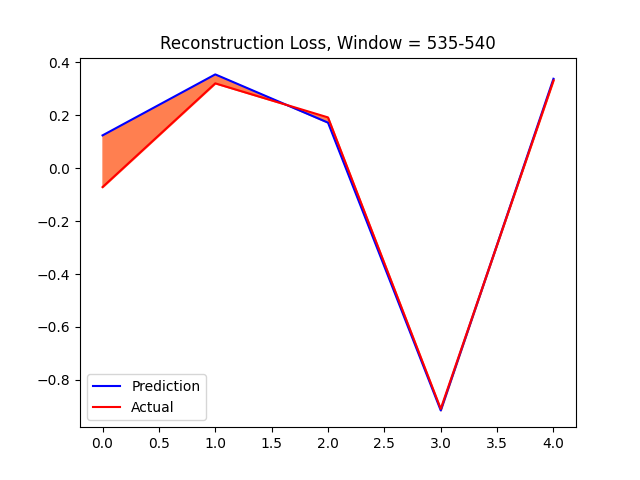
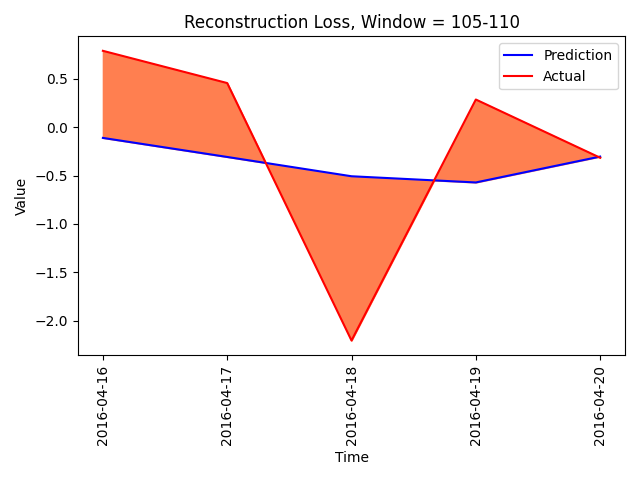
complete windows modularization and plotting cleanup

diff --git a/model/lstm_windows.py b/model/lstm_windows.py
@@ -56,7 +56,7 @@ class LSTMWindowPlot():
         file.close()
         return tuple([anomalous_ind, losses, windows, reconstructs, origs])
 
-    def window_loss_plot(self, reconstruct, orig, all = False, start=None, stop=None,  plot=True, ax=None, legend = False):
+    def window_loss_plot(self, reconstruct, orig, index = None, all = False, start=None, stop=None,  plot=True, ax=None, legend = False):
 
         if not all:
             pred_window = reconstruct[start:stop][:,0]
@@ -64,42 +64,59 @@ class LSTMWindowPlot():
         else:
             pred_window = reconstruct[:,0]
             act_window = orig[:,0]
-            start = 0
-            stop = len(reconstruct)
+            if start is None and stop is None:
+                start = 0
+                stop = len(reconstruct)
 
         if plot:
             if ax is None:
                 plt.plot(pred_window, color="blue", label="Prediction")
                 plt.plot(act_window, color="red", label="Actual")
                 plt.fill_between(np.arange(0, stop-start), act_window, pred_window, color='coral')
+                if index is not None:
+                    index = index.iloc[start:stop]
+                    plt.tick_params(axis='x', labelrotation=90)
+                    plt.xticks(np.arange(0,len(index)), index)
                 title = "Reconstruction Loss, Window = " + str(start) + "-" + str(stop)
                 plt.title(title)
+                plt.xlabel("Time")
+                plt.ylabel("Value")
+                plt.tight_layout()
                 if legend:
                     plt.legend()
             else:
                 ax.plot(pred_window, color="blue", label="Prediction")
                 ax.plot(act_window, color="red", label="Actual")
                 ax.fill_between(np.arange(0, stop-start), act_window, pred_window, color='coral')
+                if index is not None:
+                    index = index.iloc[start:stop]
+                    ax.tick_params(axis='x', labelrotation=90)
+                    ax.set_xticks(np.arange(0,len(index)), index)
                 title = "Reconstruction Loss, Window = " + str(start) + "-" + str(stop)
                 ax.set_title(title)
+                ax.set_xlabel("Time")
+                ax.set_ylabel("Value")
+                plt.tight_layout()
                 if legend:
                     ax.legend()        
         # we can now quantify the reconstruction loss in just this window
         return tf.get_static_value(tf.keras.losses.mse(pred_window, act_window))
     
-    def plot_anomalous(self, data, format_sizetitle, save = True, show=True):
+    def plot_anomalous(self, data, format_sizetitle, std_dev = 1.5, anomindex = None, save = True, show=True):
         loss = np.array(data[1])
         all_windows = np.array(data[2])
         reconstructs = np.array(data[3])[0].reshape(-1, 1)
         origs = np.array(data[4])[0].reshape(-1, 1)
-        threshold = np.mean(loss) + np.std(loss) # beyond a std dev
-
+        threshold = np.mean(loss) + std_dev*np.std(loss)
+        
         anomalous_ind = [i for i, x in enumerate(loss > threshold) if x]
         for j in anomalous_ind:
             region = all_windows[j]
             plt.figure()
-            self.window_loss_plot(reconstructs, origs, start = region[0], stop=region[1], all=False, plot=True, legend=True)
-            if save: # modeling assumption: training occurs in the first 100 time series points
-                plt.savefig("lstm_windows_res/anom_plots/" + format_sizetitle + "/anom_" + str(j) + ".png")
+            self.window_loss_plot(reconstructs, origs, index = anomindex, start = region[0], stop=region[1], all=False, plot=True, legend=True)
+            if save: 
+                plt.savefig("lstm_windows_res/anom_plots/" + format_sizetitle + "/anom_" + str(region[0]) + ".png")
             if show:
                 plt.show()
+
+        return anomalous_ind

diff --git a/run_windows.py b/run_windows.py
@@ -24,7 +24,7 @@ import tensorflow as tf
 np.random.seed(25)
 
 if len(sys.argv) != 5:
-    print("ERROR: run with python3 lstm_windows.py BATCH_SIZE, EPOCHS, SEQ_SIZE, WINDOW_SIZE")
+    print("ERROR: run with python3 run_windows.py BATCH_SIZE, EPOCHS, SEQ_SIZE, WINDOW_SIZE")
     sys.exit()
 
 os.environ['TF_CPP_MIN_LOG_LEVEL'] = '2'  # Set logging level to suppress INFO messages
@@ -71,15 +71,6 @@ features = features.apply(standard_scale)
 #train-test split, LSTM temporalize data
 data = features.values[:,COMPANY_IND]
 data = np.expand_dims(data,1)
-TEST_SIZE = 0.4
-partition_size = int(len(data) * (1 - TEST_SIZE))
-
-data_train = data[0:partition_size]
-data_test = data[partition_size:]
-
-data_train_seq = temporalize(data_train, SEQ_SIZE)
-data_test_seq = temporalize(data_test, SEQ_SIZE)
-
 
 model = LSTM_Model_Base(
         SEQ_SIZE, 
@@ -104,7 +95,7 @@ origs = []
 #moving windows over 10-1000 day range
 for i in range(10,1000-WINDOW_SIZE+1, ROLLING_STEP):
     print(str(i) + ", " + str(i+WINDOW_SIZE))
-    train, test = lstm_windows.window_traintest(i,i+WINDOW_SIZE)
+    train, test = lstm_windows.window_traintest(data, i, i+WINDOW_SIZE)
     loss, reconstruct, original = lstm_windows.lstm_windows(train, test)
     losses.append(loss)
     reconstructs.append(reconstruct)
@@ -122,14 +113,9 @@ threshold = np.mean(losses) + 2*np.std(losses) # beyond two std devs
 
 wstarts = np.arange(10, 1000-WINDOW_SIZE+1, ROLLING_STEP)
 windows = np.array(list(zip(wstarts, wstarts+WINDOW_SIZE)))
-anomalous_ind = [i for i, x in enumerate(losses > threshold) if x]
+wdata = tuple([None, losses, windows, np.array(reconstructs).reshape(1,-1).tolist(), np.array(origs).reshape(1,-1).tolist()])
 
-#plot reconstructions of high loss windows
-for i in anomalous_ind:
-    region = windows[i]
-    plt.figure()
-    lstm_window_plot.window_loss_plot(reconstructs[i], origs[i], start = region[0], stop=region[1], all=True, plot=True, legend=True)
-    plt.show()
+anomalous_ind = lstm_window_plot.plot_anomalous(wdata, "window_" + str(WINDOW_SIZE), save=False, show=True)
 
 filename = "windows" + str(WINDOW_SIZE) + "_ep" + str(EPOCHS) + "bs" + str(BATCH_SIZE) + ".txt"
 with open("lstm_windows_res/" + filename, "w") as outfile:

diff --git a/plot_windows.py b/plot_windows.py
@@ -6,9 +6,10 @@ import sys
 import tensorflow as tf
 
 if len(sys.argv) == 1:
-    DEFAULT_PLOT = True
     SAVE_NO_SHOW = True
-    SHOW_RANGE = True
+    SHOW_RANGE = False
+    SHOW_ANOM = False
+    DEFAULT_PLOT = True
     SEQ_SIZE = 5
 else:
     if len(sys.argv) != 5:
@@ -21,9 +22,18 @@ else:
     SEQ_SIZE = int(SEQ_SIZE)
     WINDOW_SIZE = int(WINDOW_SIZE)
     BIN = 100
+    DEFAULT_PLOT = False
+    SHOW_RANGE = False
+
+print("plotting...")
 
 #build the LSTMWindowPlot object to run methods
 lstm_window_plot = LSTMWindowPlot()
+
+#load temporal index from featured_credit dataset
+feat_df = pd.read_csv("data/featured_credit.csv")
+feat_df.trans_date = pd.to_datetime(feat_df.trans_date).dt.date
+dtindex = feat_df.sort_values(by="trans_date").trans_date
 
 if DEFAULT_PLOT:
     WSIZES = [5, 10, 15, 20, 25, 50]
@@ -45,8 +55,10 @@ if DEFAULT_PLOT:
     plt.ylabel("No. of Windows")
     plt.xlabel("Reconstruction Loss")
     plt.legend()
+
     if SAVE_NO_SHOW:
         plt.savefig("lstm_windows_res/hist_plots/hist_default.png")
+        plt.close()
     else:
         plt.show()
 
@@ -58,9 +70,9 @@ if DEFAULT_PLOT:
 
             lstm_window_plot.window_loss_plot(reconstructs, origs, all=True, plot=True, legend=True)
             plt.show()
-        
-        for i in range(len(WSIZES)):
-            lstm_window_plot.plot_anomalous(wdata[i], "window_" + str(WSIZES[i]), save=True, show=False)
+
+    for i in range(len(WSIZES)):
+        lstm_window_plot.plot_anomalous(wdata[i], "window_" + str(WSIZES[i]), anomindex = dtindex, save=True, show=SHOW_ANOM)
 
 else:
     w = lstm_window_plot.read_from_file(BATCH_SIZE, EPOCHS, SEQ_SIZE, WINDOW_SIZE)
@@ -76,5 +88,8 @@ else:
     reconstructs = np.array(w[3])[0].reshape(-1, 1)
     origs = np.array(w[4])[0].reshape(-1, 1)
 
-    lstm_window_plot.window_loss_plot(reconstructs, origs, all=True, plot=True, legend=True)
-    plt.show()
+    if SHOW_RANGE:
+        lstm_window_plot.window_loss_plot(reconstructs, origs, all=True, plot=True, legend=True)
+        plt.show()
+
+    lstm_window_plot.plot_anomalous(w, "window_" + str(WINDOW_SIZE), anomindex = dtindex, save=False, show=True)
